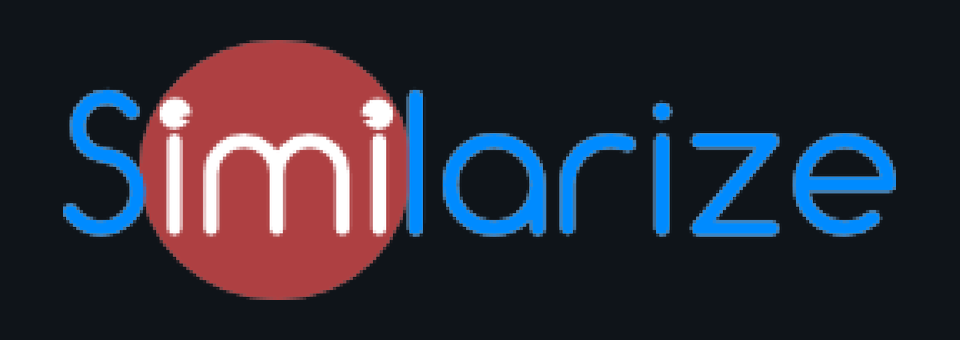
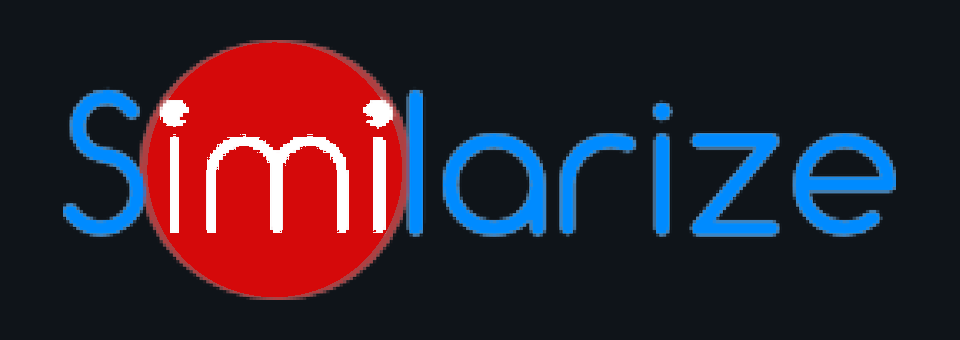
Companies: Similarize card vivid Drive red (#d5090a)
Match live similarize.com mountain-story end mark; cache-bust v=drivecollapse6.

Changed region(s): [[0.1562, 0.1176, 0.4375, 0.8824]]

diff --git a/index.html b/index.html
@@ -725,7 +725,7 @@ layout: null
         </article>
         <article class="card sim">
           <a class="card-logo" href="https://similarize.com" aria-label="Similarize">
-            <img src="img/fe-card-drive.png?v=drivecollapse5" alt="Similarize" width="960" height="340">
+            <img src="img/fe-card-drive.png?v=drivecollapse6" alt="Similarize" width="960" height="340">
           </a>
           <p>Rewrites what you mean so different perspectives can hear it — same honest point, clearer and more receivable.</p>
           <div class="card-actions">
